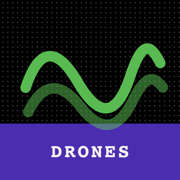
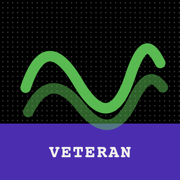
Titre VETERAN

Changed region(s): [[0.2778, 0.8056, 0.7222, 0.8889]]

diff --git a/index.html b/index.html
@@ -3,13 +3,13 @@
 <head>
   <meta charset="utf-8">
   <meta name="viewport" content="width=device-width, initial-scale=1, viewport-fit=cover, user-scalable=no">
-  <title>Drones</title>
+  <title>VETERAN</title>
   <meta name="description" content="Bibliothèque de drones pour la pratique musicale : synthé et harmonium.">
   <meta name="theme-color" content="#000000">
   <meta name="apple-mobile-web-app-capable" content="yes">
   <meta name="mobile-web-app-capable" content="yes">
   <meta name="apple-mobile-web-app-status-bar-style" content="black-translucent">
-  <meta name="apple-mobile-web-app-title" content="Drones">
+  <meta name="apple-mobile-web-app-title" content="VETERAN">
   <link rel="manifest" href="manifest.webmanifest">
   <link rel="icon" href="icons/icon-192.png">
   <link rel="apple-touch-icon" href="icons/apple-touch-icon.png">
@@ -17,7 +17,7 @@
 </head>
 <body>
   <header class="top">
-    <div class="brand">Drones</div>
+    <div class="brand">VETERAN</div>
     <button id="play" class="play" title="Espace : lancer / arrêter">▶ Lancer</button>
     <label class="ctl">Volume <input id="master" type="range" min="0" max="1" step="0.01"></label>
     <label class="ctl">La4 = <input id="a4" type="number" min="400" max="480" step="0.5"> Hz</label>

diff --git a/app.js b/app.js
@@ -563,7 +563,7 @@
     cellEls.voices.clear();
     cellEls.samples.clear();
     if (!p) {
-      main.innerHTML = `<div class="welcome"><h1>Drones</h1>
+      main.innerHTML = `<div class="welcome"><h1>VETERAN</h1>
         <p>Créez un morceau, choisissez sa tonique, touchez les notes qui doivent sonner, et c'est enregistré.
         Ensuite, un clic sur le morceau dans la liste lance son drone.</p>
         <p><button class="btn" id="welcome-new">+ Nouveau morceau</button></p></div>`;

diff --git a/sw.js b/sw.js
@@ -4,7 +4,7 @@
      via le bouton « Garder les sons hors ligne » de l'app.
    Changer VERSION force la mise à jour du shell chez les utilisateurs. */
 
-const VERSION = 'drones-2026-11-04-161907';
+const VERSION = 'drones-2026-11-04-162242';
 const SHELL_CACHE = 'drones-shell-' + VERSION;
 const SAMPLE_CACHE = 'drones-samples-v1';
 

diff --git a/README.md b/README.md
@@ -1,4 +1,4 @@
-# Drones
+# VETERAN (Drones)
 
 Application interne : une bibliothèque de drones pour la pratique musicale.
 Pour chaque morceau, on allume les notes qui doivent sonner, et c'est enregistré automatiquement. Un clic sur un morceau dans la liste lance son drone.
